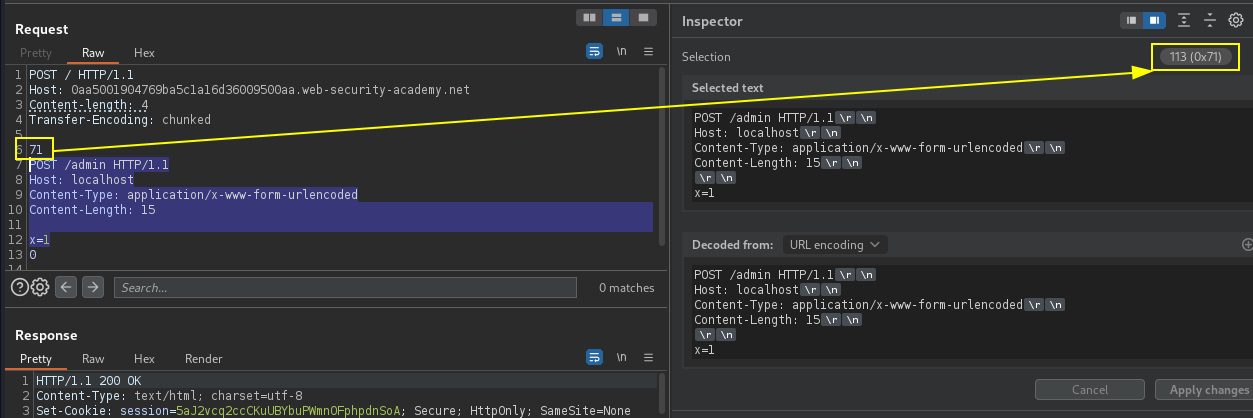
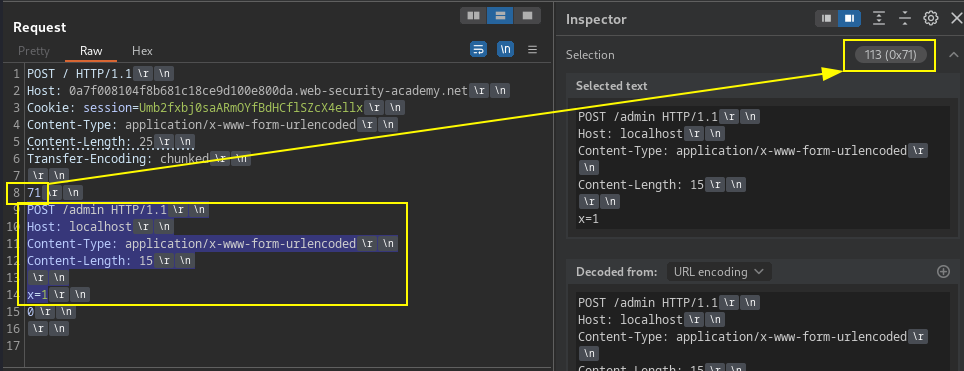
Burp Suite Certified Practitioner
BSCP

Changed region(s): [[0.0, 0.0, 1.0, 1.0], [0.4668, 0.8302, 0.4979, 0.8895], [0.0, 0.0593, 0.0622, 0.0889]]

diff --git a/README.md b/README.md
@@ -379,6 +379,8 @@ csrf=YOUR-CSRF-TOKEN&username=carlos
 ## HTTP Request Smuggling  
 
 >Architecture with front-end and back-end server, and front-end or backend does not support chunked encoding **(HEX)** or content-length **(Decimal)**. Bypass security controls to retrieve the victim's request and use the victim user's cookies to access their account.  
+
+### 
   
 >Manually fixing the length fields in request smuggling attacks, requires each chunk size in bytes expressed in **HEXADECIMAL**, and **Content-Length** specifies the length of the message body in **bytes**. Chunks are followed by a **newline**, then followed by the chunk contents. The message is terminated with a chunk of size ZERO.  
 
@@ -399,10 +401,13 @@ Content-Type: application/x-www-form-urlencoded
 Content-Length: 15
 
 x=1
-0
+0  
+  
 ```  
 
->Above TE.CL (Transfer-Encoding / Content-Length) smuggle request count in **HEXADECIMAL** and the payload is between the hex length of **71** and the terminating **ZERO**, not including the ZERO as part of counting the payload length. The inital POST request **content-length** is manually set.  
+>**Note:** include the trailing sequence \r\n\r\n following the final 0.  
+
+>Calculating TE.CL (Transfer-Encoding / Content-Length) smuggle request length in **HEXADECIMAL** and the payload is between the hex length of **71** and the terminating **ZERO**, not including the ZERO AND not the preceding \r\n on line above ZERO, as part of length. The inital POST request **content-length** is manually set.  
   
 [PortSwigger Lab: Exploiting HTTP request smuggling to bypass front-end security controls, TE.CL vulnerability](https://portswigger.net/web-security/request-smuggling/exploiting/lab-bypass-front-end-controls-te-cl)  
 
